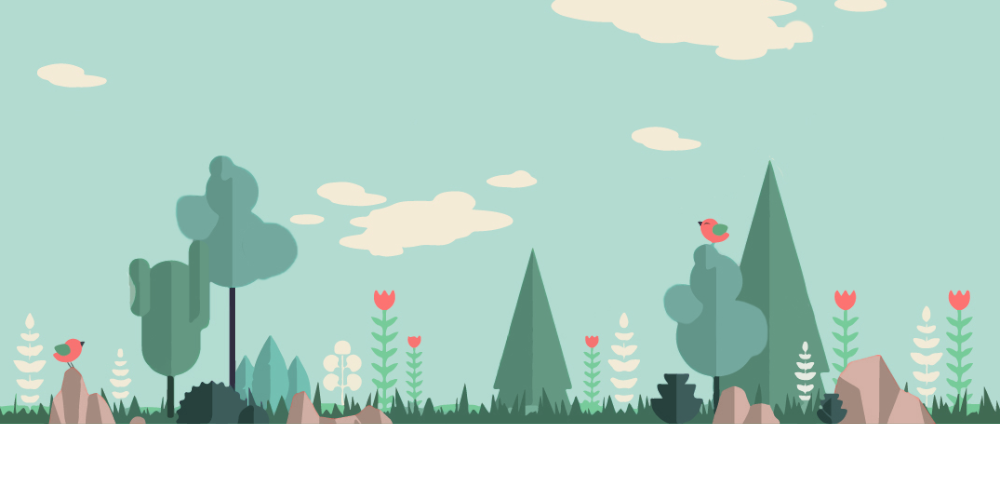
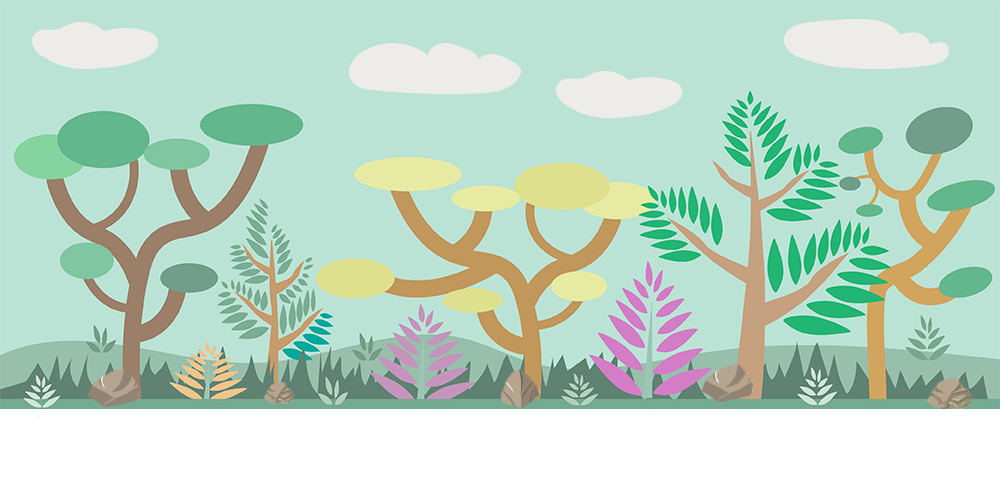
added obstacles and changed background

diff --git a/js/Koala.js b/js/Koala.js
@@ -1,42 +1,28 @@
+var koalaImgSrc = 'img/koala_icon.png';
+
 // Koala Constructor
-function Koala(x, y, vx, vy, radius, ctx, canvasHeight) {
+function Koala(x, y, width, height, ctx) {
     this.x = x;
-    this.y = canvasHeight;
-    this.radius = radius;
-    this.color = '#FFF58F';
+    this.y = y;
+    this.img = new Image();
+    this.img.src = koalaImgSrc;
     this.ctx = ctx;
     this.speedX = 0;
     this.speedY = 0;
     this.numberOfJumps = 0;
+    this.width = width;
+    this.height = height;
 
     // Parameter to adapt
-    this.gravity = 0.9; // The bigger, the faster will be the fall
-    this.bounce = 0.6; // The bigger, the more it will bounce. 0 => nothing, 1 => bounce for ever
-    this.friction = 0.05; // The bigger, the smoother the fall will be
-    this.maxJumps = 2;
-
-    // this.gravitySpeed = 0;
-    // this.koalaImg = new Image();
-    // this.koalaImg.src = koalaImgSrc;
-    // this.drawImage(this.koalaImg, this.x, this.y, this.width, this.height);
-
-    // Former draw method
-    // this.draw = function() {
-    //     this.ctx.save();
-    //     this.ctx.fillStyle = this.color;
-    //     this.ctx.beginPath();
-    //     this.ctx.arc(this.x, this.y, this.radius, 0, Math.PI * 2, true);
-    //     this.ctx.closePath();
-    //     this.ctx.fill();
-    //     this.ctx.restore();
-    // };
+    this.gravity = 0.5; // The bigger, the faster will be the fall
+    this.bounce = 0.8; // The bigger, the more it will bounce. 0 => nothing, 1 => bounce for ever
+    this.friction = 0.06; // The bigger, the smoother the fall will be
+    this.maxJumps = 3;
 }
 
 Koala.prototype.draw = function() {
-    this.ctx.save();
-    this.ctx.fillStyle = this.color;
-    this.ctx.fillRect(this.x, this.y, this.radius, this.radius);
-    this.ctx.restore();
+    // console.log(this.img.src);
+    this.ctx.drawImage(this.img, this.x, this.y, this.width, this.height);
 };
 
 Koala.prototype.newPos = function() {
@@ -44,36 +30,38 @@ Koala.prototype.newPos = function() {
     this.x += this.speedX;
     this.y += this.speedY;
 
-    // Bottom and top boundary
-    // if (this.y + this.radius >= canvasHeight || this.y - this.radius < 0) {
-    //     this.vy *= -1;
-    // }
-    // if (this.x < 0) this.x = 0;
-    // if (this.x > canvasWidth - this.radius) this.x = canvasWidth - this.radius;
-
     // Reach the top
-    if (this.y < this.radius) {
-        this.y = this.radius;
+    if (this.y < this.height) {
+        this.y = this.height;
         this.speedY = 0;
     }
     // Reach the bottom
-    if (this.y > canvasHeight - this.radius) {
+    if (this.y > canvasHeight - 50 - this.height) {
         this.numberOfJumps = 0;
-        this.y = canvasHeight - this.radius;
+        this.y = canvasHeight - 50 - this.height;
         this.speedY *= -this.bounce;
     }
 };
-
-// Koala.prototype.hitBottom = function() {
-//     var rockbottom = this.ctx.canvas.height - this.radius;
-//     if (this.y >= rockbottom) {
-//         this.gravitySpeed = -(this.gravitySpeed * this.bounce);
-//     }
-// };
 
 Koala.prototype.jump = function(n) {
     if (this.numberOfJumps < this.maxJumps) {
         this.numberOfJumps++;
         this.speedY = -20;
     }
+};
+
+Koala.prototype.collide = function(obstacle) {
+    var myleft = this.x;
+    var myright = this.x + this.width;
+    var mytop = this.y;
+    var mybottom = this.y + this.height;
+    var otherleft = obstacle.x;
+    var otherright = obstacle.x + obstacle.width;
+    var othertop = obstacle.y;
+    var otherbottom = obstacle.y + obstacle.height;
+    var crash = true;
+    if (mybottom < othertop || mytop > otherbottom || myright < otherleft || myleft > otherright) {
+        crash = false;
+    }
+    return crash;
 };

diff --git a/js/main.js b/js/main.js
@@ -8,7 +8,9 @@ var canvasHeight = ctx.canvas.height;
 // declarations:
 var interval;
 var koalaFig;
-var myObstacles;
+var obstaclesArray = [];
+var obstaclesArrayNames = ['bob1', 'bob2', 'bob3', 'bob4', 'bob5'];
+var frames = 0;
 
 // On load start event listener and start game function:
 window.onload = function() {
@@ -23,14 +25,15 @@ window.onload = function() {
             // koalaFig.accelerate(0.3);
         }
     });
+    // document.getElementById("start-button").onclick = function() {
+    //     startGame();
+    //   };
     startGame();
 };
 
 function startGame() {
-    koalaFig = new Koala(60, 455, 5, 2, 40, ctx, canvasHeight);
-    // myObstacles = new Obstacles();
+    koalaFig = new Koala(100, 300, 65, 50, ctx);
     interval = setInterval(updateGameArea, 20);
-    console.log(backImgUp, backImgBot);
 }
 function clearGame() {
     ctx.clearRect(0, 0, this.canvas.width, this.canvas.height);
@@ -38,6 +41,7 @@ function clearGame() {
 
 // Clear Game Area / move and draw elements
 function updateGameArea() {
+    frames++;
     clearGame();
     backImgUp.move();
     backImgBot.move();
@@ -45,4 +49,36 @@ function updateGameArea() {
     backImgUp.draw();
     backImgBot.draw();
     koalaFig.draw();
+
+    if (frames % 100 === 0) {
+        randomBobCreator();
+    }
+    for (var i = 0; i < obstaclesArray.length; i++) {
+        obstaclesArray[i].move();
+        if (koalaFig.collide(obstaclesArray[i])) {
+            gameover();
+        }
+        obstaclesArray[i].draw();
+    }
+}
+
+function randomBobCreator() {
+    randomNumber = Math.floor(Math.random() * obstaclesArrayNames.length);
+    randomBob = obstaclesArrayNames[randomNumber];
+    obstaclesArray.push(new Obstacles(randomBob, canvas, ctx));
+}
+
+// gameover game function:
+function gameover() {
+    clearInterval(interval);
+    return imgGameOver;
+}
+
+// score function?
+function score() {
+    var frames = 0;
+    points = Math.floor(frames / 5);
+    context.font = '18px serif';
+    context.fillStyle = 'black';
+    context.fillText('Score: ' + points, 350, 50);
 }

diff --git a/js/Obstacles.js b/js/Obstacles.js
@@ -1,3 +1,44 @@
-// function Obstacles() = {
-//     this.
-// }
+function Obstacles(randomBob, canvas, ctx) {
+    this.canvas = canvas;
+    this.ctx = ctx;
+    this.img = new Image();
+    switch (randomBob) {
+        case 'bob1':
+            this.height = 93;
+            this.width = 63;
+            this.img.src = 'img/obstacle_01.png';
+            break;
+        case 'bob2':
+            this.height = 68;
+            this.width = 46;
+            this.img.src = 'img/obstacle_02.png';
+            break;
+        case 'bob3':
+            this.height = 93;
+            this.width = 51;
+            this.img.src = 'img/obstacle_03.png';
+            break;
+        case 'bob4':
+            this.height = 80;
+            this.width = 47;
+            this.img.src = 'img/obstacle_04.png';
+            break;
+        case 'bob5':
+            this.height = 105;
+            this.width = 47;
+            this.img.src = 'img/obstacle_05.png';
+            break;
+    }
+    this.x = this.canvas.width;
+    this.y = this.canvas.height - 50 - this.height;
+    this.speedX = 0;
+    this.speedY = 0;
+}
+// appear Randomly:
+Obstacles.prototype.draw = function() {
+    this.ctx.drawImage(this.img, this.x, this.y);
+};
+
+Obstacles.prototype.move = function() {
+    this.x--;
+};

diff --git a/js/images.js b/js/images.js
@@ -19,6 +19,8 @@ function backImage(imgSrc, x, speed) {
 }
 
 // Background image upper part:
-var backImgUp = new backImage('img/backImg_v01.png', 0, -0.5);
+var backImgUp = new backImage('img/backImgUp.png', 0, -0.5);
 // Background image upper part:
-var backImgBot = new backImage('img/backImgBot4.png', 0, -1);
+var backImgBot = new backImage('img/backImgBott.png', 0, -1);
+// game over
+var imgGameOver = new backImage('img/gameover.png', 0, 0);
